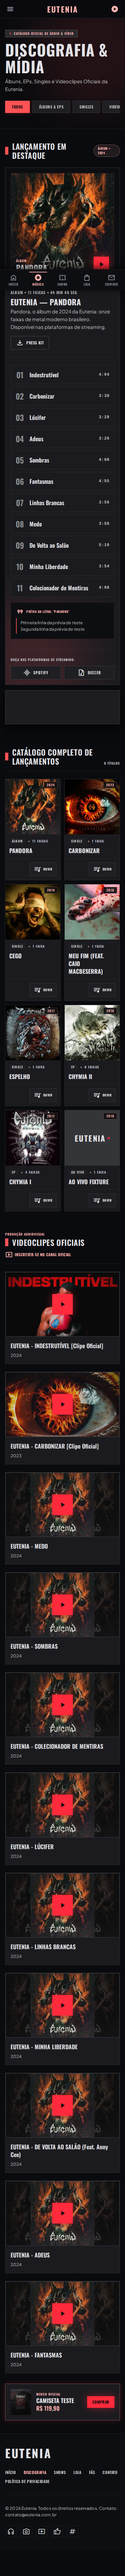
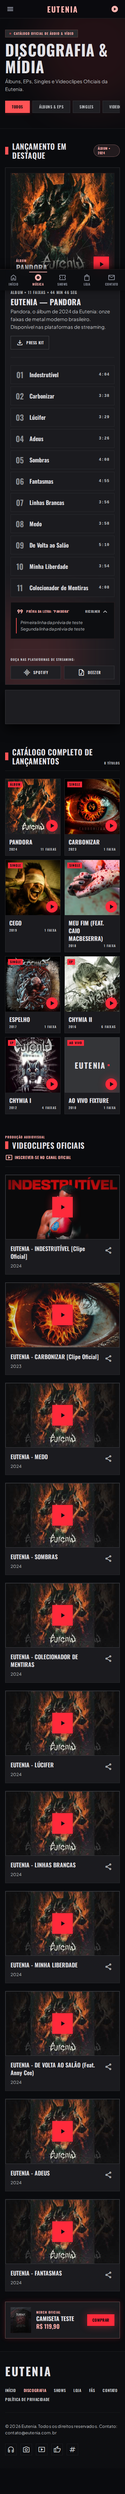
fix(screens): close round 2 ui differences on mobile cards, lyrics and vip
- inicio mobile: release card ends with icon row and outlined OUVIR AGORA
- discografia: lyrics preview collapses with Recolher; card action reads
  OUVIR / TRACKLIST on desktop; mobile cards carry type badge and round
  play button over the cover, year and faixas under the title
- discografia mobile: video cards get a share button (share sheet or copy)
- shows mobile: VIP price beside a red button; vote card desktop only
- spec: record the accepted round 2 differences (user: recomendacao)

diff --git a/tests/e2e/discografia.spec.ts b/tests/e2e/discografia.spec.ts
@@ -59,6 +59,8 @@ test.describe('without JavaScript', () => {
     await expect(page.locator('[data-video]:visible')).toHaveCount(11);
     await expect(page.locator('[data-filter-bar]')).toBeHidden();
     await expect(page.getByRole('button', { name: 'Singles' })).toHaveCount(0);
+    // The share button needs a script: without one it stays hidden.
+    await expect(page.locator('[data-share]').first()).toBeHidden();
   });
 });
 
@@ -110,4 +112,63 @@ test('DISC-02 mobile merch promo shows the first featured product', async ({ pag
   const buy = promo.getByRole('link', { name: /Comprar Camiseta Teste/ });
   await expect(buy).toHaveAttribute('href', 'https://loja.exemplo.com/camiseta');
   await expect(buy).toHaveAttribute('target', '_blank');
+});
+
+test('DISC-01 lyrics preview collapses with Recolher and expands again', async ({ page }) => {
+  await page.goto('discografia/');
+  const lyrics = page.locator('[data-lyrics]');
+  const line = lyrics.getByText('Primeira linha da prévia de teste');
+  await expect(line).toBeVisible();
+  const toggle = lyrics.locator('summary');
+  await expect(toggle).toContainText('Recolher');
+  await toggle.click();
+  await expect(line).toBeHidden();
+  await expect(toggle).toContainText('Expandir');
+  await toggle.click();
+  await expect(line).toBeVisible();
+});
+
+test('DISC-03 catalog card actions: desktop OUVIR / TRACKLIST, mobile play over the cover', async ({
+  page,
+}, testInfo) => {
+  await page.goto('discografia/');
+  const card = page.locator('[data-release]').first();
+  const desktopAction = card.getByRole('link', { name: /Ouvir \/ Tracklist/i });
+  const play = card.locator('[data-mobile-play]');
+  if (testInfo.project.name === 'mobile') {
+    await expect(desktopAction).toBeHidden();
+    await expect(play).toBeVisible();
+    await expect(play).toHaveAccessibleName(/^Ouvir .+ \(abre em nova aba\)$/);
+    await expect(card.locator('[data-mobile-type]')).toBeVisible();
+    // The play button sits over the cover's bottom-right corner.
+    const cover = (await card.locator('img, [data-cover-fallback]').first().boundingBox())!;
+    const p = (await play.boundingBox())!;
+    expect(p.x + p.width).toBeLessThanOrEqual(cover.x + cover.width);
+    expect(p.y + p.height).toBeLessThanOrEqual(cover.y + cover.height);
+    expect(p.x).toBeGreaterThan(cover.x + cover.width / 2);
+  } else {
+    await expect(play).toBeHidden();
+    await expect(desktopAction).toBeVisible();
+    await expect(desktopAction).toHaveAttribute('target', '_blank');
+  }
+});
+
+test('DISC-07 mobile video card share copies the watch link', async ({
+  page,
+  context,
+}, testInfo) => {
+  test.skip(testInfo.project.name !== 'mobile', 'share icon is drawn on mobile only');
+  await context.grantPermissions(['clipboard-read', 'clipboard-write']);
+  await page.addInitScript(() => {
+    // Force the copy path: Chromium headless has no share sheet.
+    Object.defineProperty(navigator, 'share', { value: undefined });
+  });
+  await page.goto('discografia/');
+  const video = page.locator('[data-video]').first();
+  const share = video.getByRole('button', { name: /^Compartilhar / });
+  await expect(share).toBeVisible();
+  await share.click();
+  await expect(video.locator('[data-share-status]')).toHaveText('Link copiado');
+  const copied = await page.evaluate(() => navigator.clipboard.readText());
+  expect(copied).toMatch(/^https:\/\/www\.youtube\.com\/watch\?v=[\w-]{11}$/);
 });

diff --git a/tests/e2e/shows.spec.ts b/tests/e2e/shows.spec.ts
@@ -271,3 +271,26 @@ test('SHOW-02 mobile rows are one compact line with a red accent when on sale', 
   await expect(accent('Belo Horizonte, MG')).toHaveCSS('background-color', 'rgba(0, 0, 0, 0)');
   await expect(accent('Brasília, DF')).toHaveCSS('background-color', 'rgba(0, 0, 0, 0)');
 });
+
+test('SHOW-09 mobile VIP card puts price and red button side by side; vote card is desktop only', async ({
+  page,
+}, testInfo) => {
+  await page.goto('shows/');
+  const vip = page.locator('[data-vip]');
+  const vote = page.locator('[data-voto]');
+  const mobileBuy = vip.locator('[data-vip-mobile-buy]');
+  if (testInfo.project.name !== 'mobile') {
+    await expect(mobileBuy).toBeHidden();
+    await expect(vote).toBeVisible();
+    return;
+  }
+  await expect(vote).toBeHidden();
+  const price = mobileBuy.getByText(/R\$/);
+  const buy = mobileBuy.getByRole('link', { name: /Garantir upgrade VIP/ });
+  await expect(buy).toBeVisible();
+  await expect(buy).toHaveCSS('background-color', 'rgb(255, 42, 59)');
+  const p = (await price.boundingBox())!;
+  const b = (await buy.boundingBox())!;
+  expect(b.x).toBeGreaterThan(p.x + p.width);
+  expect(Math.abs(b.y + b.height / 2 - (p.y + p.height / 2))).toBeLessThan(30);
+});

diff --git a/tests/e2e/inicio.spec.ts b/tests/e2e/inicio.spec.ts
@@ -179,3 +179,25 @@ test('HOME-01 desktop show action reads Comprar ingresso as SHOW-07 names it', a
     .getByRole('link', { name: /Comprar ingresso/ });
   await expect(buy).toHaveText('Comprar ingresso');
 });
+
+test('HOME-02 mobile release card ends with icon row and outlined OUVIR AGORA', async ({
+  page,
+}, testInfo) => {
+  await page.goto('./');
+  const card = page.locator('[data-latest] li').first();
+  const actions = card.locator('[data-latest-mobile-actions]');
+  if (testInfo.project.name !== 'mobile') {
+    await expect(actions).toBeHidden();
+    return;
+  }
+  await expect(actions).toBeVisible();
+  const button = actions.getByText('Ouvir agora');
+  await expect(button).toBeVisible();
+  await expect(button).toHaveCSS('border-top-style', 'solid');
+  await expect(button).toHaveCSS('background-color', 'rgba(0, 0, 0, 0)');
+  await expect(actions.locator('.material-symbols-outlined')).toHaveCount(2);
+  // icons left, button right
+  const icons = (await actions.locator('.material-symbols-outlined').first().boundingBox())!;
+  const b = (await button.boundingBox())!;
+  expect(b.x).toBeGreaterThan(icons.x + icons.width);
+});

diff --git a/tests/dist/discografia.test.ts b/tests/dist/discografia.test.ts
@@ -149,9 +149,14 @@ describe('Discografia (dist, real content)', () => {
     for (const li of cards) {
       const id = /\bid="([^"]*)"/.exec(li)![1];
       const release = releases.find((r) => r.id === id)!;
-      const spotifyHrefs = anchors(li)
-        .map((a) => a.href)
-        .filter((h) => h.includes('open.spotify.com'));
+      // A card has one play link per breakpoint (mobile cover button, desktop row): same target.
+      const spotifyHrefs = [
+        ...new Set(
+          anchors(li)
+            .map((a) => a.href)
+            .filter((h) => h.includes('open.spotify.com')),
+        ),
+      ];
       const spotify = (release.links as Record<string, string>).spotify;
       if (spotify) {
         expect(spotify, id).toMatch(/^https:\/\/open\.spotify\.com\/album\//);

diff --git a/src/lib/icons.ts b/src/lib/icons.ts
@@ -17,6 +17,7 @@ export const CODE_ICONS = [
   'download',
   'event_available',
   'event_busy',
+  'expand_more',
   'folder_open',
   'folder_zip',
   'format_quote',
@@ -43,6 +44,7 @@ export const CODE_ICONS = [
   'public',
   'queue_music',
   'send',
+  'share',
   'shield',
   'shopping_bag',
   'smart_display',

diff --git a/.specs/features/site-v0/spec.md b/.specs/features/site-v0/spec.md
@@ -329,6 +329,12 @@ O eutenia.net atual é um WordPress com páginas vazias: só título e rodapé. 
 | "Termos de uso" no rodapé | "Política de Privacidade" → `/privacidade/` | y - AD-008 |
 | Hero e clipe "Carbono" (inicio, mobile-inicio) | Álbum Pandora e clipe Indestrutível | y - AD-009 |
 | Seções com dado vazio (estatísticas, mural, VIP, Telegram etc.) | Omitidas até haver dado | y - AD-002 |
+| Rodapé com blurb, redes e duas colunas com título (inicio); tagline "O CAOS NÃO ESPERA." (mobile-shows) | Rodapé único em linha: logo, links, ©, redes (NAV-07; demais capturas) | y - 2026-11-08 user: "recomendacao" |
+| Chips "ESTILO: POST-HARDCORE · MODERN METAL" (discografia) e tag de gênero nos cards do catálogo | Ausentes - gênero não informado pela banda | y - 2026-11-08 user: "recomendacao" |
+| Ícone de play e link "LETRA" por faixa na tracklist (discografia) | Número, nome e duração - sem áudio nem letra por faixa | y - 2026-11-08 user: "recomendacao" |
+| Badge de duração nas miniaturas de vídeo; linha de crédito no card de vídeo (discografia, mobile-discografia) | Ausentes - dado inexistente | y - 2026-11-08 user: "recomendacao" |
+| Chip "AUDIO // PRO" no cabeçalho (mobile-discografia) | Ícone de play, como nas demais capturas mobile | y - 2026-11-08 user: "recomendacao" |
+| Controles de mini player no card de lançamento (mobile-inicio) | Ausentes - player customizado saiu (AD-006) | y - 2026-11-08 user: "recomendacao" |
 | Bloco compacto "Leve o Eutenia para a sua cidade" com WhatsApp e rider (mobile-shows) | Seção "Contratar a banda" com o formulário completo | y - AD-010 |
 
 ## Sources
